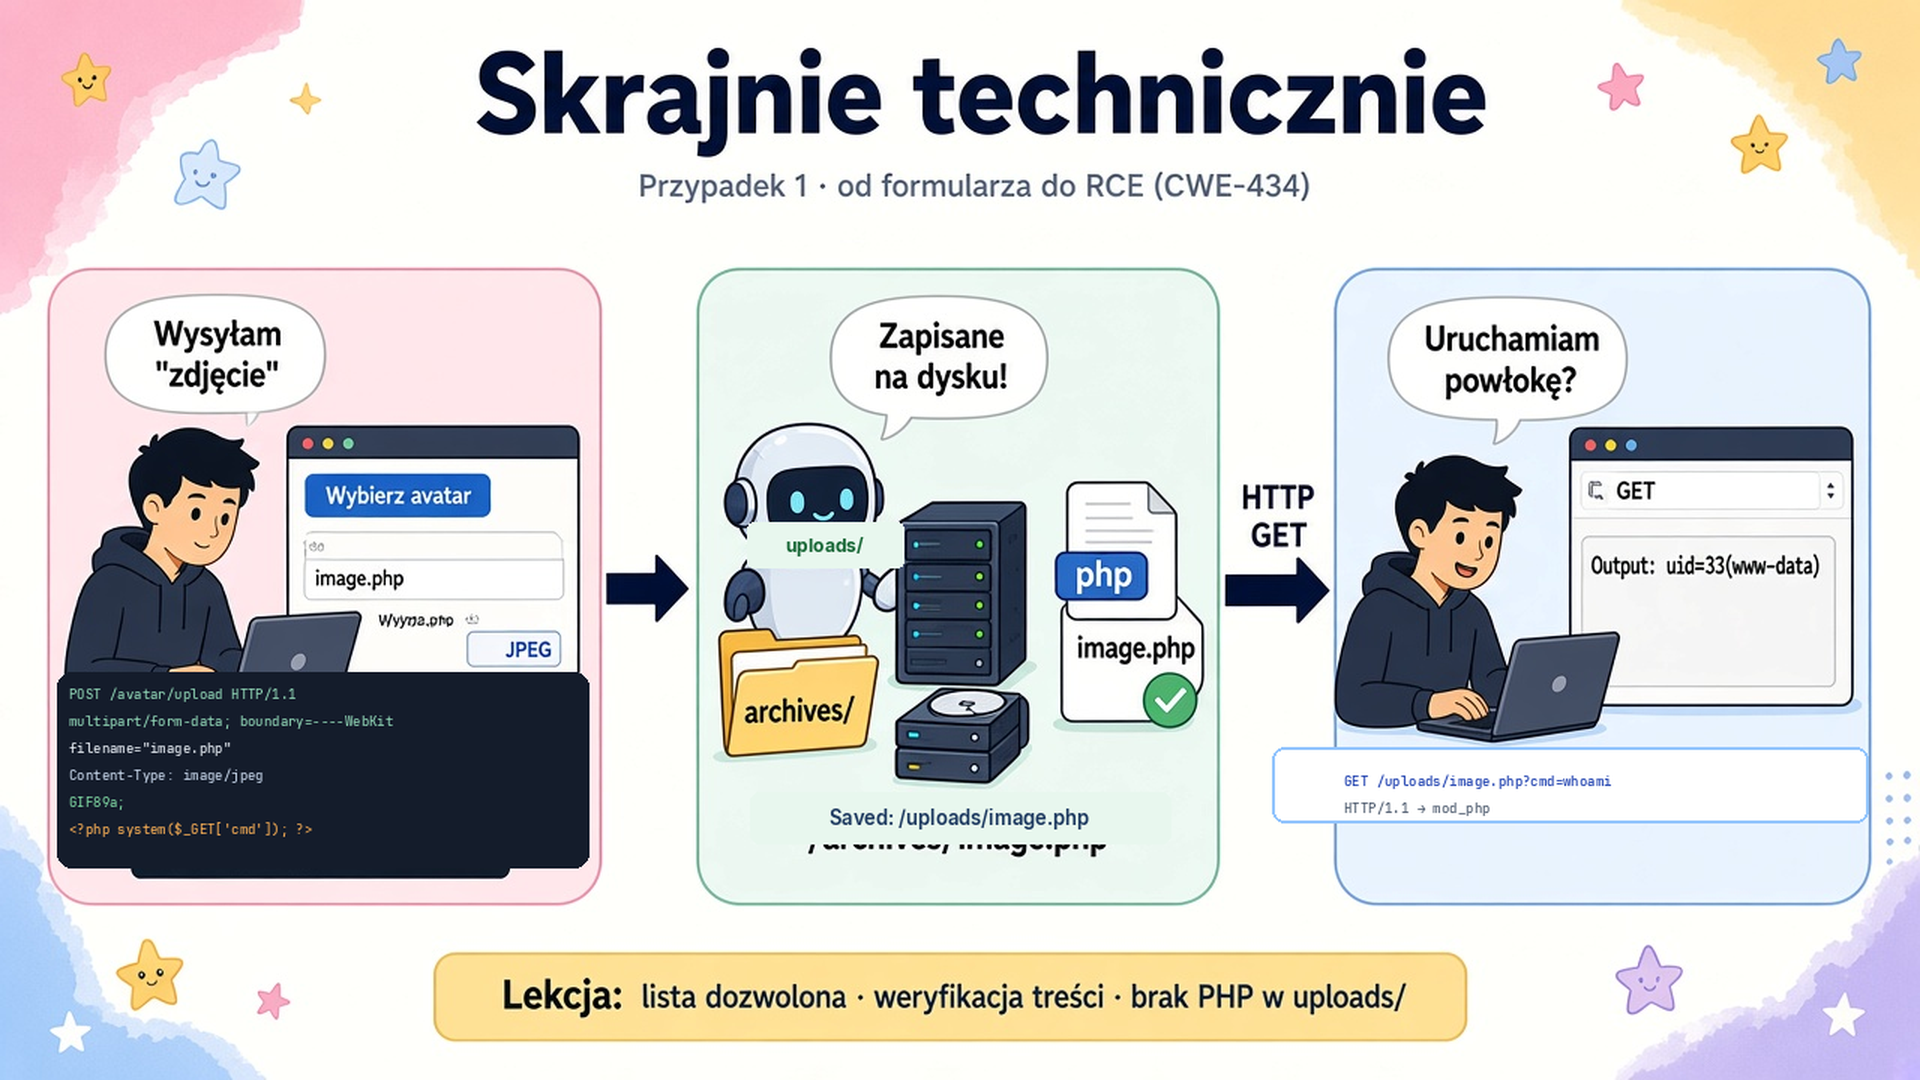
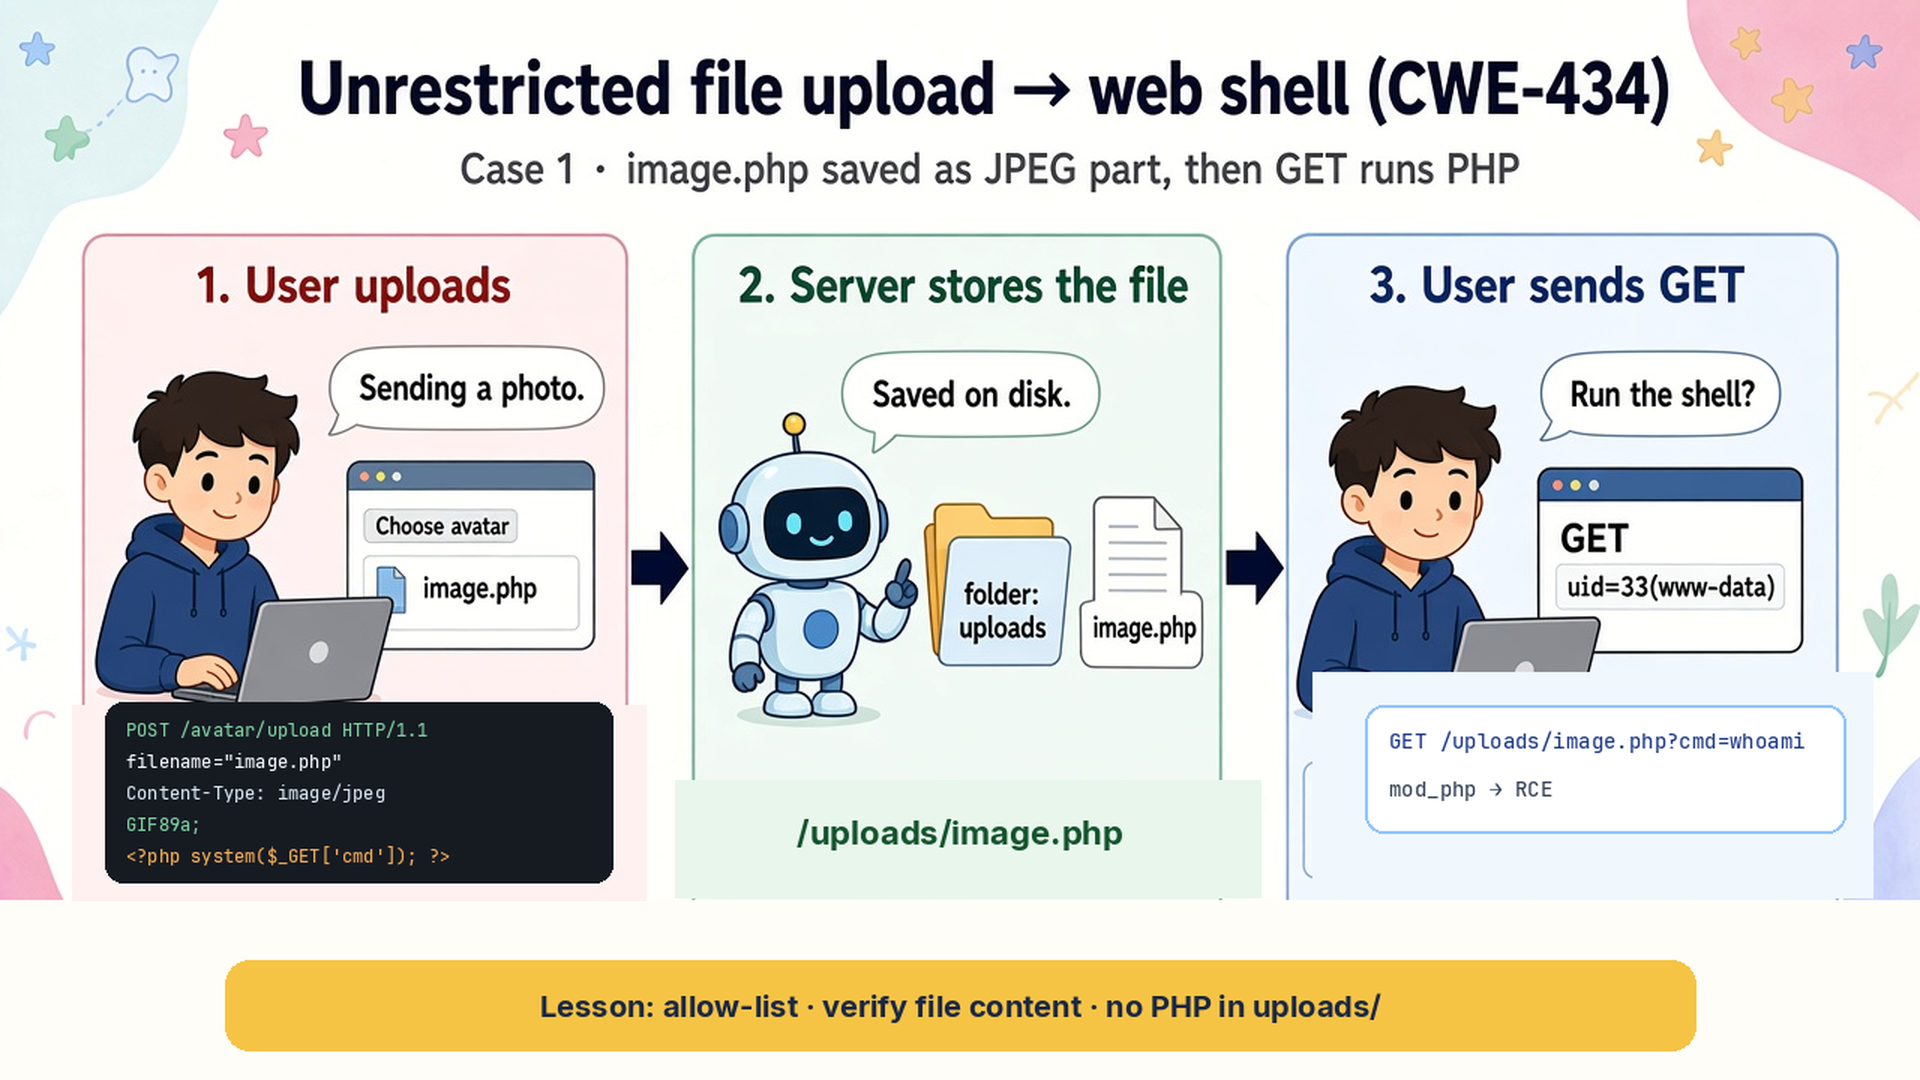
Hist-01 slide: English CWE-434 title, three non-overlapping steps

diff --git a/FileUpload/presentation/historical-cases/README.md b/FileUpload/presentation/historical-cases/README.md
@@ -29,7 +29,7 @@ Each case has a PNG in [`illustrations/`](illustrations/). Case **#1** uses **tw
    - **Change the shop** (defacement, scam page, malware for visitors)
    - **Pivot** — use your server to attack others (spam, bots, mining)
 
-**Technical slide (story):** [`hist-01-php-shell-technical-720p.png`](illustrations/hist-01-php-shell-technical-720p.png) — **3 kroki wizualnie:** (1) user + formularz upload i **body** POST (`image/jpeg`, `GIF89a`, PHP), (2) serwer / **zapis na dysku** `uploads/image.php`, (3) user **GET** → `mod_php`. Ludziki, chmurki, kolory jak deck XSS; dokładny HTTP w terminalikach po wygenerowaniu obrazu.
+**Technical slide (story, English):** [`hist-01-php-shell-technical-720p.png`](illustrations/hist-01-php-shell-technical-720p.png) — title **Unrestricted file upload → web shell (CWE-434)**. Three separate cards: (1) user uploads `image.php` as `image/jpeg` with `GIF89a;` + PHP body, (2) server stores `/uploads/image.php`, (3) user GETs `?cmd=whoami` and `mod_php` runs it.
 
 **HTTP (what the slide shows):**
 
